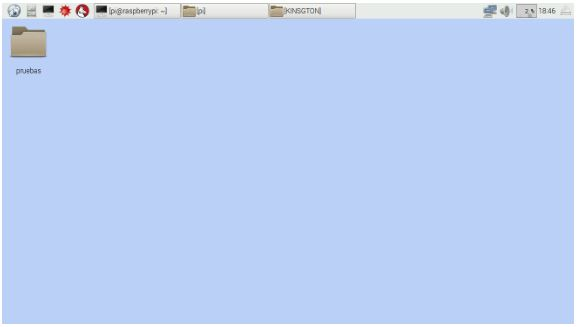
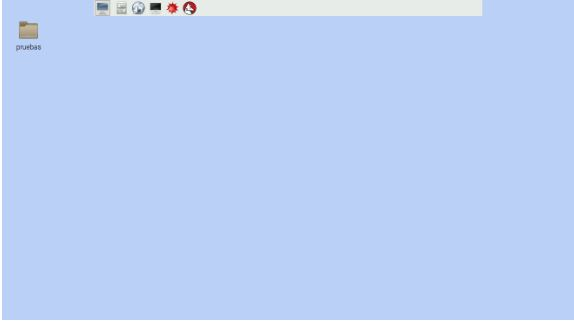
correción ortográfica de guías

Changed region(s): [[0.0, 0.0, 1.0, 1.0]]

diff --git a/pantalla_sonido.md b/pantalla_sonido.md
@@ -1,48 +1,55 @@
-# Problema: Cambiar la resolución de la pantalla y el sonido desaparece
-El problema se presenta al conectar la tarjeta Raspberry Pi a un monitor con distinta
-resolución, este no se ajustaba de forma automática y sus dimensiones no
-permitían que el usuario encontrara un ambiente adecuado de trabajo.
-## Solución:
-## Cambiar resolución de pantalla:
-Primero citaremos las fuentes de donde se saco la información para poder
-modificar el config.txt http://ieeesb-uniovi.es/talleres-charlas/linux/raspberry-pi/ 
-ahora para poder cambiar la resolución de acuerdo a nuestro monitor debemos consultar una lista con los distintos
-tipos de resolución en el siguiente enlace http://elinux.org .
+# Modificar la resolución de la pantalla y hacer correcciones con el sonido.
 
-Debemos abrir una terminal, en esta debemos poner el siguiente
-comando:
+## MODIFICAR LA RESOLUCIÓN DE LA PANTALLA
+**Problema:** Al conectar la tarjeta Raspberry Pi a un monitor con una resolución distinta, esta no se ajusta de forma automática y sus dimensiones no
+permiten que el usuario tenga un ambiente adecuado de trabajo.
+
+Para poder corregir este problema debemos realizar los siguientes pasos:
+
+Sobre una parte vacía del escritorio (que no contenga ningún icono) damos clic derecho para ir a la opción de terminal.
+
+Escribir el siguiente comando:
 ```
-  sudo nano/boot/config.txt
+sudo nano/boot/config.txt
 ```
-como se muestra en la siguiente imagen:  
+La siguiente imagen muestra un ejemplo:  
 
 ![Scheme](imagenes/pa_1.JPG)  
 
-Una vez que este se ejecuta, se abrirá un archivo del cual se buscarán y eliminarán
-los # en las siguientes lineas:
+Se abrirá un archivo del cual tenemos que buscar y eliminar
+los simbolos **#** de las siguientes lineas:
 ```
 #hdmi_group=2 //Es el tipo de salida HDMI( 1 por defecto): 1=CEA y 2=DMT
 #hdmi_mode=39 //Resolución de salida (configurar el valor según la tabla de la pagina// elinux)
 #hdmi_drive=2 //Si el formato elegido es el DMT.
 ```
-Estas configuraciones las mostramos en la siguiente imagen:  
+Se muestra un ejemplo en la siguiente imagen:  
 
 ![Scheme](imagenes/pa_2.JPG)
 
-## El sonido desaparece
-El problema es que no se escuchaba el audio, dependiendo si el monitor tenía
-parlantes o simplemente la salida del audio era por auriculares.
+Una vez que se hayan realizado estos pasos, la resolución de la pantalla debe ser la adecuada.
 
-El siguiente comando ingresado por terminal cambiará la salida de audio a HDMI:
+### Fuentes
+* Modificar **config.txt** http://ieeesb-uniovi.es/talleres-charlas/linux/raspberry-pi/  
+* Para poder cambiar la resolución de acuerdo a nuestro monitor debemos consultar una lista con los distintos
+tipos de resolución en el siguiente enlace http://elinux.org
+
+## RESTABLECER SONIDO
+**Problema:** No se escucha el audio, dependiendo si el monitor tiene
+bocinas externas o la salida es a través de audifonos. Para solucionar este problema, se muestran dos formas.
+### Forma 1
+Abrir la terminal y escribir el siguiente comando, así cambiará la salida de audio a HDMI.
 ```
 amixer cset numid=3 1
 ```
-Aquí la salida se establece a 1 ya que el monitor no tenía parlantes, la cambiamos a
-analógica (toma de auriculares), en caso de que si la salida sería 2. El ajuste
-predeterminado es 0, que es automático.
 
-La segunda forma de resolverlo, es muy sencilla para el usuario. En la esquina
-superior derecha hay un icono en forma de parlante, se selecciona y este desplegara dos
-opciones para el tipo de salida que nos gustaría (Analógica o HDMI), como se muestra en
-la siguiente imagen:
+Si el monitor no tiene bocinas externas, cambiamos la salida por análogica (salida de audífonos) y esta se establece a 1 en la configuración, en caso que si las tenga, la salida es 2.  
+El ajuste predeterminado es 0 (automático).
+
+### Forma 2
+En la esquina superior derecha hay un icono en forma de bocina, se selecciona y despliega dos opciones: 
+  * Analógica
+  * HDMI
+
+Se muestra un ejemplo en la siguiente imagen:
 ![Scheme](imagenes/pa_3.JPG)

diff --git a/crear_imagen_raspbian_tarjetaSD.md b/crear_imagen_raspbian_tarjetaSD.md
@@ -1,17 +1,30 @@
-# Instrucciones para crear una imagen de Raspbian en una tarjeta SD
-## 1.-Instale el programa etcher que le propocionaremos
-  * Enseguida le aparecerá una ventana con la opción de "acepto" para iniciar la instalación.
+# Crear una imagen de Raspbian en una tarjeta SD
+Antes de comenzar con estos pasos, usted debe de contar con un dispositivo USB conectado a su PC para poder almacenar la imagen.
+
+## 1.-Instale el programa etcher 
+  * Este programa se le proporcionará.
+  * Se muestra una ventana con la opción de **acepto** para iniciar la instalación.
+
+  La siguiente imagen muestra un ejemplo:
   ![Scheme](imagenes/ci_1.PNG)
 ## 2.-Ejecute el programa
-  * Despues de finalizar la instalación, ejecute el programa.
+  * Después de finalizar la instalación, ejecute el programa.
   * Posteriormente aparecerá una ventana con 3 recuadros.
+En la siguiente imagen se muestra un ejemplo:
+![Scheme](imagenes/ci_3.PNG)
   * Hacer clic en el primer recuadro de color azul cielo.
-  * Enseguida se abrirá un gestor de archivos en el que tendrá que seleccionar la imagen con extensión .img que se ha proporcionado.  
+  * Se abre un gestor de archivos, seleccionar la imagen con extensión **.img** que se le ha proporcionado.
+
+  La siguiente imagen muestra un ejemplo: 
   ![Scheme](imagenes/ci_2.PNG)
-## 4.-Seleccionar el dispositivo
+## 3.-Seleccionar el dispositivo
   * La opción del medio cambiará su color a azul cielo.
-  * En esta opción tendrá que seleccionar el dispositivo en el que desea cargar la imagen.  
-  ![Scheme](imagenes/ci_3.PNG)
-## 5.-Finalmente
-  * Presione el último recuadro que tiene inscrito el nombre de "Flash!" para así proceder con la creación de la imagen.  
-  ![Scheme](imagenes/ci_4.PNG)
+  * Seleccionar el dispositivo en el que desea cargar la imagen.
+
+La siguiente imagen muestra un ejemplo: 
+![Scheme](imagenes/ci_3.PNG)
+## 4.-Creación de la imagen
+  * Presione el último recuadro que tiene inscrito el nombre de **Flash!** y espere para concluir con la creación de la imagen.
+
+La siguiente imagen muestra un ejemplo:
+![Scheme](imagenes/ci_4.PNG)

diff --git a/dimensiones_escritorio_boton_inicio.md b/dimensiones_escritorio_boton_inicio.md
@@ -1,0 +1,29 @@
+# Modificar las dimensiones del escritorio y restablecer la posición del botón de inicio.
+
+**Problema:** Se ha alterado el tamaño de los iconos y las dimensiones de la barra de tareas.
+
+La siguiente imagen nos muestra un ejemplo:
+![Scheme](imagenes/eb_1.JPG)
+
+**Problema:** El botón de inicio ha sido movido y ahora no se puede ingresar de forma gráfica a las aplicaciones.
+
+La siguiente imagen nos muestra un ejemplo:
+![Scheme](imagenes/eb_2.JPG)  
+
+Para corregir estos problemas debemos seguir los siguientes pasos:
+
+Sobre una parte vacía del escritorio (que no contenga ningún icono) damos clic derecho para ir a la opción de terminal.
+
+Escribimos el siguiente comando:
+
+```
+sudo rm -r ~/.config/lxpanel
+```
+![Scheme](imagenes/eb_3.JPG)  
+Una vez dada la entrada anterior, escribimos el siguiente comando:
+```
+sudo service lightdm restart
+```
+![Scheme](imagenes/eb_4.JPG)
+
+Una vez que se hayan realizado estos pasos, las dimensiones del escritorio y el botón de inicio deben estar normales.
